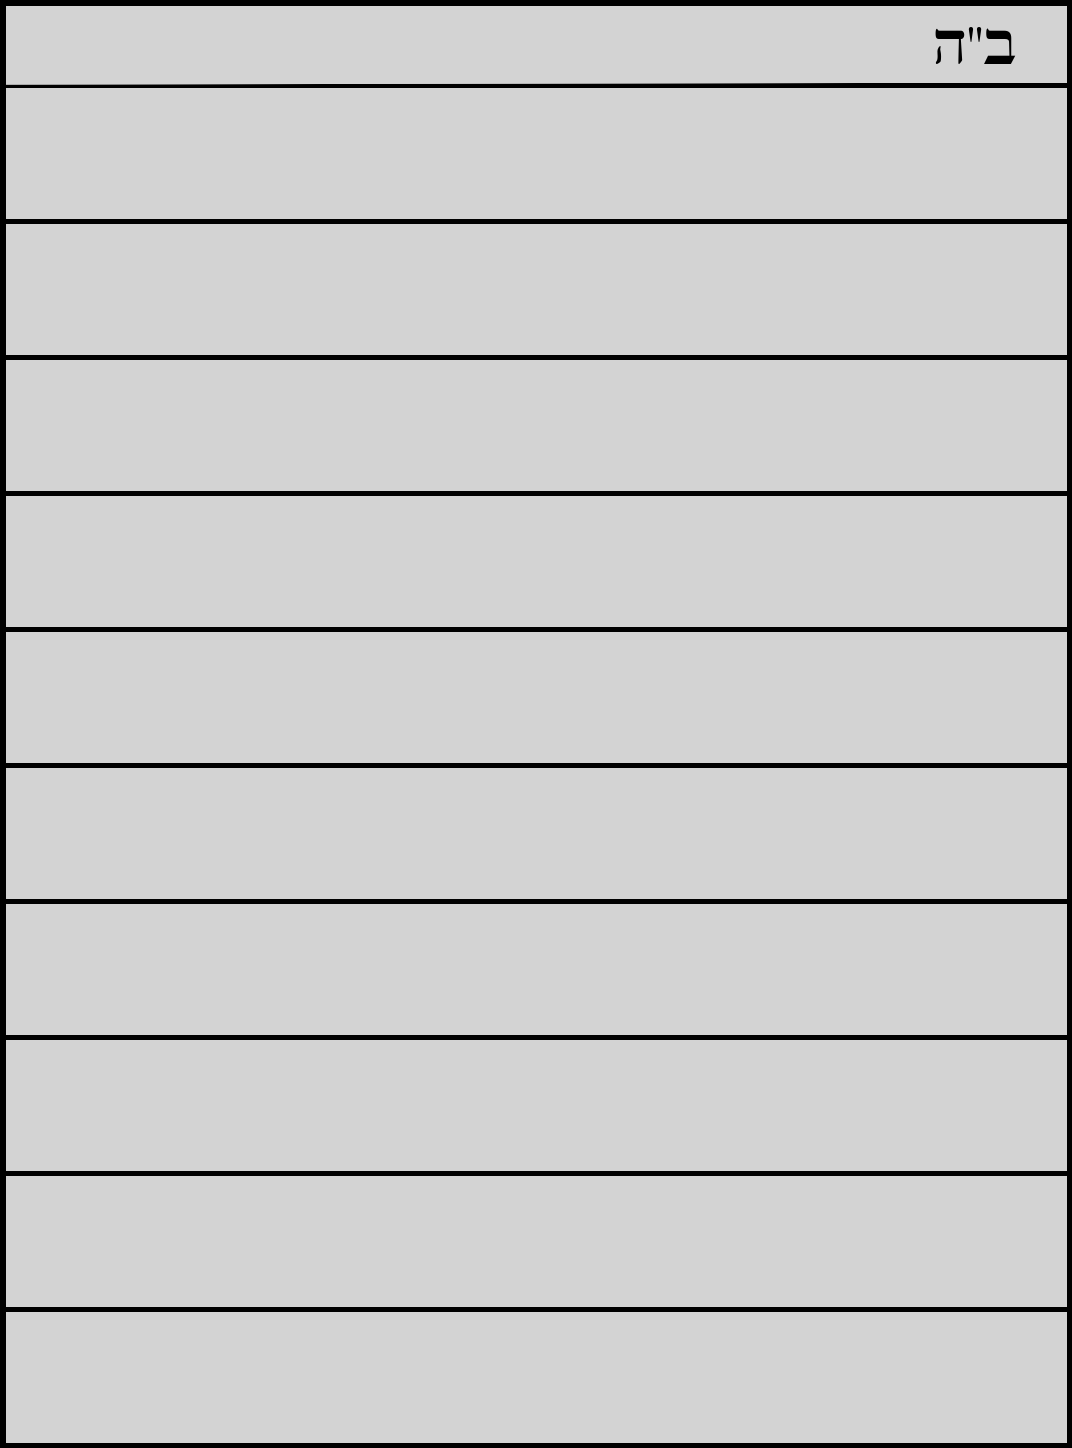
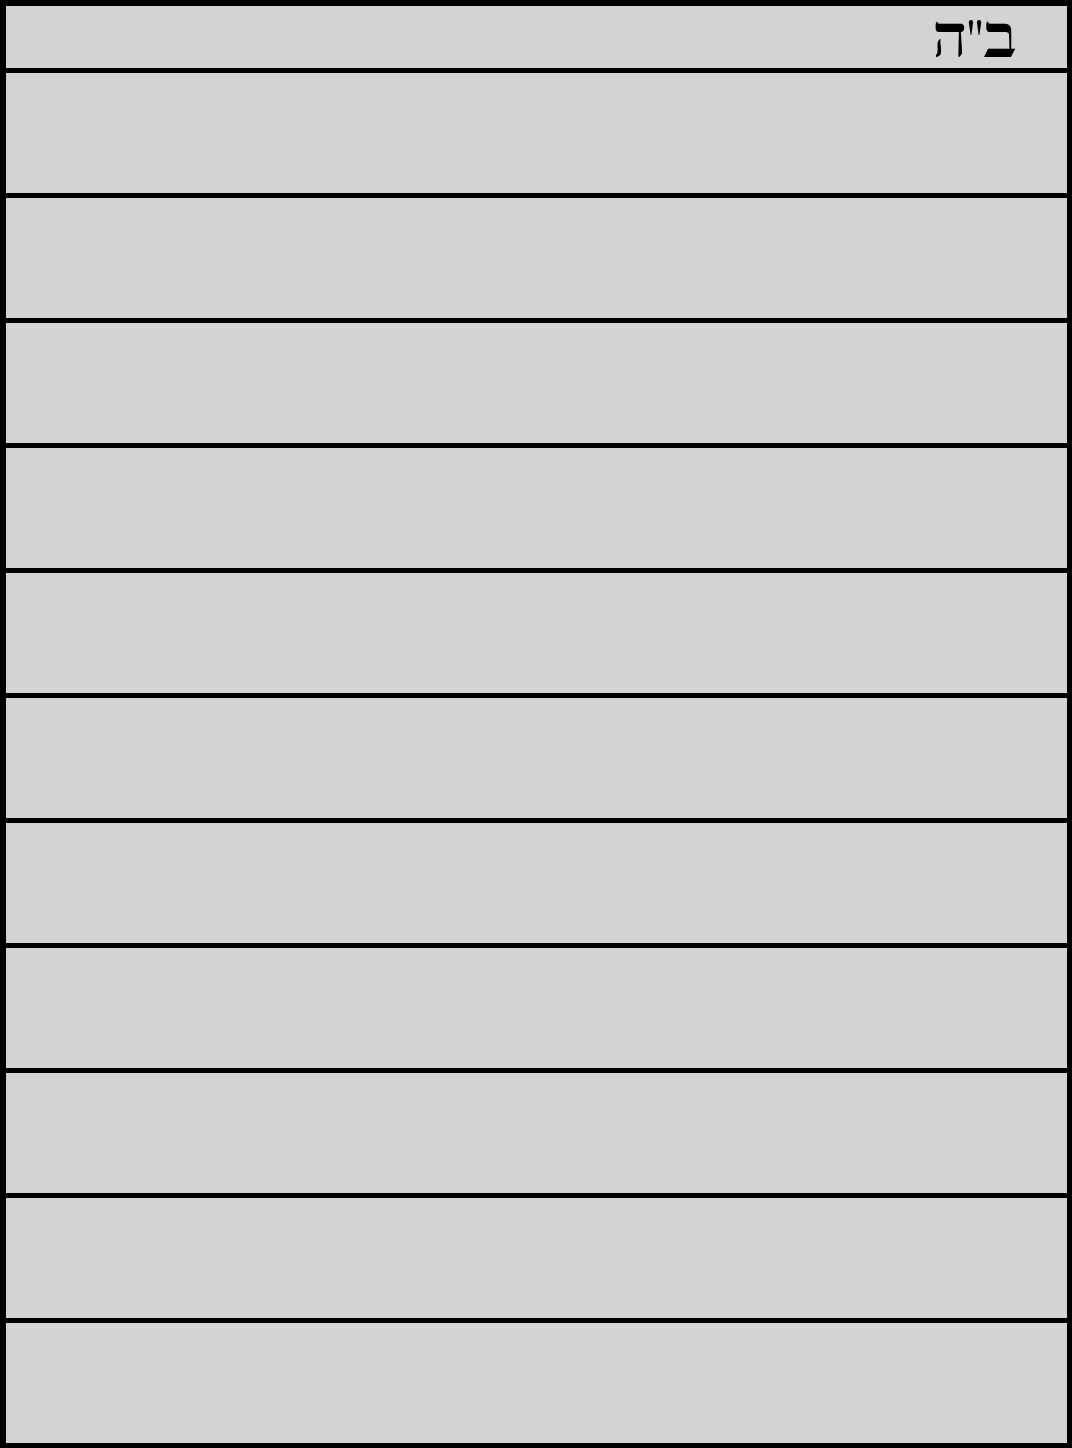
proper tanya support

diff --git a/src/kzman.c b/src/kzman.c
@@ -35,10 +35,11 @@ _Bool screenswitch = 0;
 struct timespec sleeptime = {.tv_sec=1, .tv_nsec=500000000};
 
 //screen size dependent
-int linespace = 75;
+int zmanlinespace = 75;
+int shuirlinespace = 75;
 int rightzmanmargin = 420;
-int skiptanya = 150;
-FBInkOTConfig basefontconf = {.margins={.top=50,.right=0}, .size_pt=30};
+FBInkOTConfig zmanfontconf = {.margins={.top=50,.right=0}, .size_pt=30};
+FBInkOTConfig shuirfontconf = {.margins={.top=50,.right=0}, .size_pt=28};
 const char* zmanbg = BASEPATH;
 const char* shuirbg = BGPSHPATH;
 
@@ -74,29 +75,29 @@ hdate getnightfall(hdate date, location here)
 	else {return gettzaisbaalhatanya(date, here);}
 }
 
-void print_ot(const char* restrict string, FBInkOTConfig* fontconf, const FBInkConfig* restrict fbink_cfg)
+void print_ot(const char* restrict string, FBInkOTConfig* fontconf, const FBInkConfig* restrict fbink_cfg, int margin)
 {
 	fbink_print_ot(fbfd, string, fontconf, fbink_cfg, NULL);
-	fontconf->margins.top += linespace;
+	fontconf->margins.top += margin;
 }
 
-void print_heb(char* string, FBInkOTConfig* fontconf)
+void print_heb(char* string, FBInkOTConfig* fontconf, int margin)
 {
 	reverse_string(string);
-	print_ot(string, fontconf, &configCT);
+	print_ot(string, fontconf, &configCT, margin);
 }
 
-void print_time(hdate date, FBInkOTConfig* fontconf)
+void print_time(hdate date, FBInkOTConfig* fontconf, int margin)
 {
 	char final[10] = {'\0'};
 	time_t time = hdatetime_t(date);
 	struct tm tm;
 	localtime_r(&time, &tm);
 	strftime(final, 6, "%-I:%M", &tm);
-	print_ot(final, fontconf, &configLT);
+	print_ot(final, fontconf, &configLT, margin);
 }
 
-void print_parshah(FBInkOTConfig* fontconf, hdate date)
+void print_parshah(FBInkOTConfig* fontconf, hdate date, int margin)
 {
 	char parsha[50]={'\0'};
 	memset(parsha, 0, sizeof parsha);
@@ -117,32 +118,30 @@ void print_parshah(FBInkOTConfig* fontconf, hdate date)
 			strncat(parsha, yomtovformat(getyomtov(shabbos)), strlen(yomtovformat(getyomtov(shabbos))));
 		}
 	}
-	print_heb(parsha, fontconf);
+	print_heb(parsha, fontconf, margin);
 }
 
-void print_shuir(FBInkOTConfig* fontconf, hdate hebrewDate, int (*f)(hdate date, char* buffer), _Bool rambam)
+void print_shuir(FBInkOTConfig* fontconf, hdate hebrewDate, int (*f)(hdate date, char* buffer), int margin)
 {
 	char buf[100]={'\0'};
 	memset(buf, 0, sizeof buf);
 	(*f)(hebrewDate, buf);
 	char * buf2 = strchr(buf, '\n');
 	*buf2++ = '\0';
-	char * buf3 = NULL;
-	if (rambam){
-		buf3 = strstr(buf2, " - ");
-	}
+	char * buf3 = strchr(buf2, '\n');;
 	if (buf3){
-		memset(buf3, '\0', sizeof(char)*2);
-		buf3+=sizeof(char)*2;
+		*buf3++ = '\0';
+		//memset(buf3, '\0', sizeof(char)*2);
+		//buf3+=sizeof(char)*2;
 	}
-	print_heb(buf, fontconf);
-	print_heb(buf2, fontconf);
+	print_heb(buf, fontconf, margin);
+	print_heb(buf2, fontconf, margin);
 	if (buf3){
-		print_heb(++buf3, fontconf);
+		print_heb(buf3, fontconf, margin);
 	}
 }
 
-void print_date(FBInkOTConfig* fontconf, hdate* hebrewDate, location here)
+void print_date(FBInkOTConfig* fontconf, hdate* hebrewDate, location here, int margin)
 {
 	char buf[36];
 	size_t len = 36;
@@ -161,7 +160,7 @@ void print_date(FBInkOTConfig* fontconf, hdate* hebrewDate, location here)
 		len -= 7;
 	}
 	hdateformat(date, len, *hebrewDate);
-	print_heb(buf, fontconf);
+	print_heb(buf, fontconf, margin);
 }
 
 hdate getNow(_Bool EY)
@@ -181,24 +180,25 @@ void zman()
 	hdate hebrewDate = getNow(EY);
 
 	fbink_init(fbfd, &configCT);
-	FBInkOTConfig fontconf = basefontconf;
+	FBInkOTConfig fontconf = zmanfontconf;
 	fbink_cls(fbfd, &configCT, NULL);
 	fbink_print_image(fbfd, zmanbg, 0, 0, &configCT);
+	int margin = zmanlinespace;
 
-	print_date(&fontconf, &hebrewDate, here);
-	print_parshah(&fontconf, hebrewDate);
+	print_date(&fontconf, &hebrewDate, here, margin);
+	print_parshah(&fontconf, hebrewDate, margin);
 	
 	fbink_init(fbfd, &configLT);
 	fontconf.margins.right = rightzmanmargin;
 
-	print_time(getalosbaalhatanya(hebrewDate, here), &fontconf);
-	print_time(getmisheyakir10p2degrees(hebrewDate, here), &fontconf);
-	print_time(getsunrise(hebrewDate, here), &fontconf);
-	print_time(getshmabaalhatanya(hebrewDate, here), &fontconf);
-	print_time(getchatzosbaalhatanya(hebrewDate, here), &fontconf);
-	print_time(getminchagedolabaalhatanya(hebrewDate, here), &fontconf);
-	print_time(getsunset(hebrewDate, here), &fontconf);
-	print_time(getnightfall(hebrewDate, here), &fontconf);
+	print_time(getalosbaalhatanya(hebrewDate, here), &fontconf, margin);
+	print_time(getmisheyakir10p2degrees(hebrewDate, here), &fontconf, margin);
+	print_time(getsunrise(hebrewDate, here), &fontconf, margin);
+	print_time(getshmabaalhatanya(hebrewDate, here), &fontconf, margin);
+	print_time(getchatzosbaalhatanya(hebrewDate, here), &fontconf, margin);
+	print_time(getminchagedolabaalhatanya(hebrewDate, here), &fontconf, margin);
+	print_time(getsunset(hebrewDate, here), &fontconf, margin);
+	print_time(getnightfall(hebrewDate, here), &fontconf, margin);
 
 	fbink_refresh(fbfd, 0, 0, 0, 0, &configRF);
 	syslog(LOG_INFO, "zman: new picture\n");
@@ -210,17 +210,18 @@ void shuir()
 	_Bool EY = place.EY;
 	hdate hebrewDate = getNow(EY);
 
-	FBInkOTConfig fontconf = basefontconf;
+	FBInkOTConfig fontconf = shuirfontconf;
 	fbink_init(fbfd, &configCT);
 	fbink_cls(fbfd, &configCT, NULL);
 	fbink_print_image(fbfd, shuirbg, 0, 0, &configCT);
+	int margin = shuirlinespace;
 
-	print_date(&fontconf, &hebrewDate, here);
+	print_date(&fontconf, &hebrewDate, here, margin);
 
-	print_shuir(&fontconf, hebrewDate, chumash, 0);
-	print_shuir(&fontconf, hebrewDate, tehillim, 0);
-fontconf.margins.top += skiptanya;
-	print_shuir(&fontconf, hebrewDate, rambam, 1);
+	print_shuir(&fontconf, hebrewDate, chumash, margin);
+	print_shuir(&fontconf, hebrewDate, tehillim, margin);
+	print_shuir(&fontconf, hebrewDate, tanya, margin);
+	print_shuir(&fontconf, hebrewDate, rambam, margin);
 
 	fbink_refresh(fbfd, 0, 0, 0, 0, &configRF);
 	syslog(LOG_INFO, "shuir: new picture\n");
@@ -336,12 +337,15 @@ int setScreenSize(uint32_t width, uint32_t height)
 	if (width == 600 &&  height == 800) { return 0;}
 	if (width == 1072 &&  height == 1448)
 	{
-		linespace = 136;
+		zmanlinespace = 136;
+		shuirlinespace = 125;
 		rightzmanmargin = 756;
-		skiptanya = 272;
-		basefontconf.margins.top = 88;
-		basefontconf.margins.right = 0;
-		basefontconf.size_pt = 30;
+		zmanfontconf.margins.top = 88;
+		zmanfontconf.margins.right = 0;
+		zmanfontconf.size_pt = 30;
+		shuirfontconf.margins.top = 73;
+		shuirfontconf.margins.right = 0;
+		shuirfontconf.size_pt = 28;
 		zmanbg = "/mnt/us/zman/base300.png";
 		shuirbg = "/mnt/us/zman/bgpicshuir300.png";
 		return 0;
